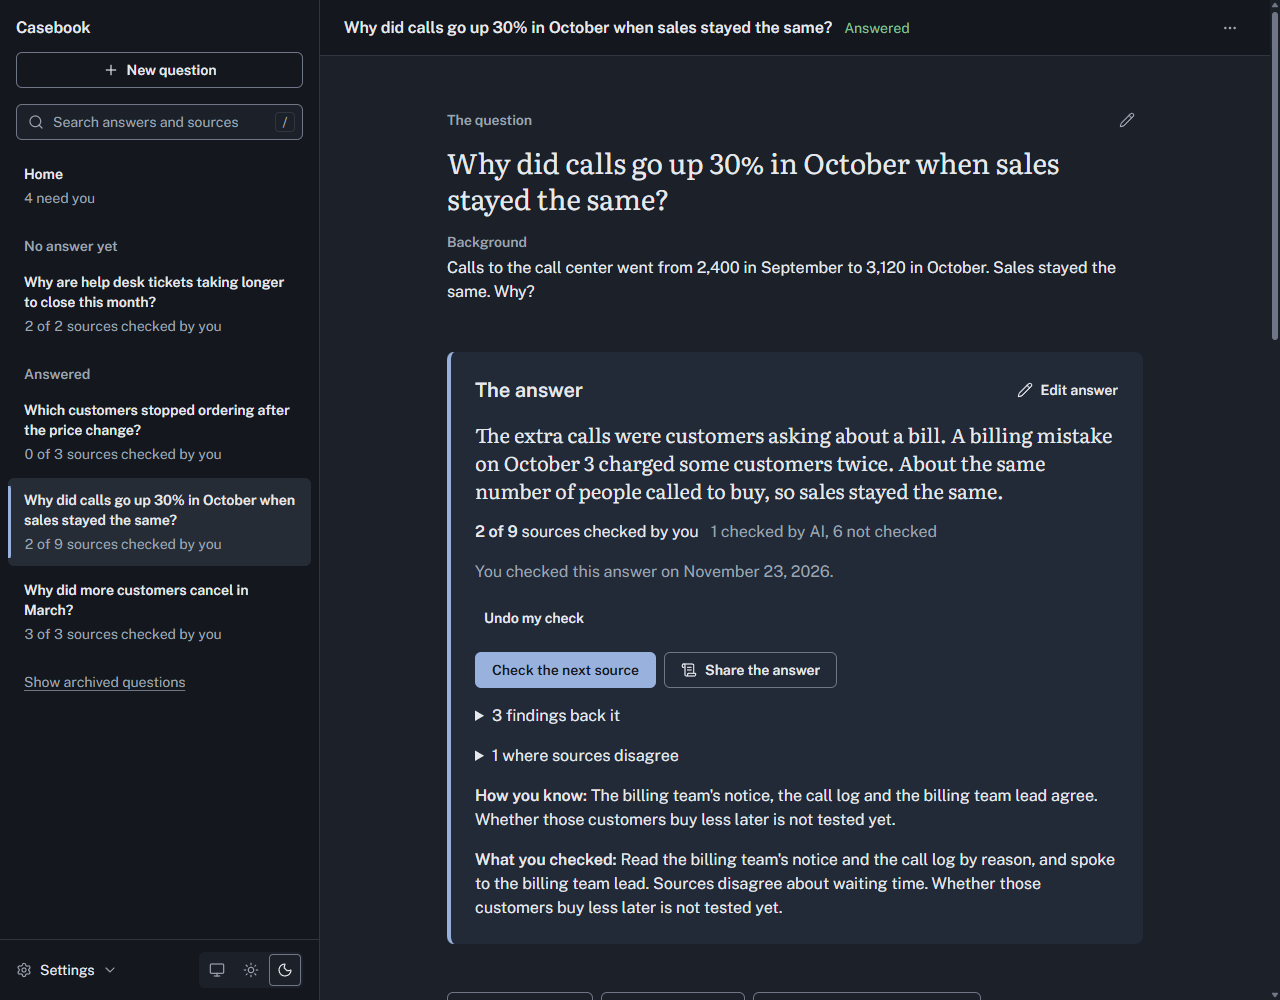
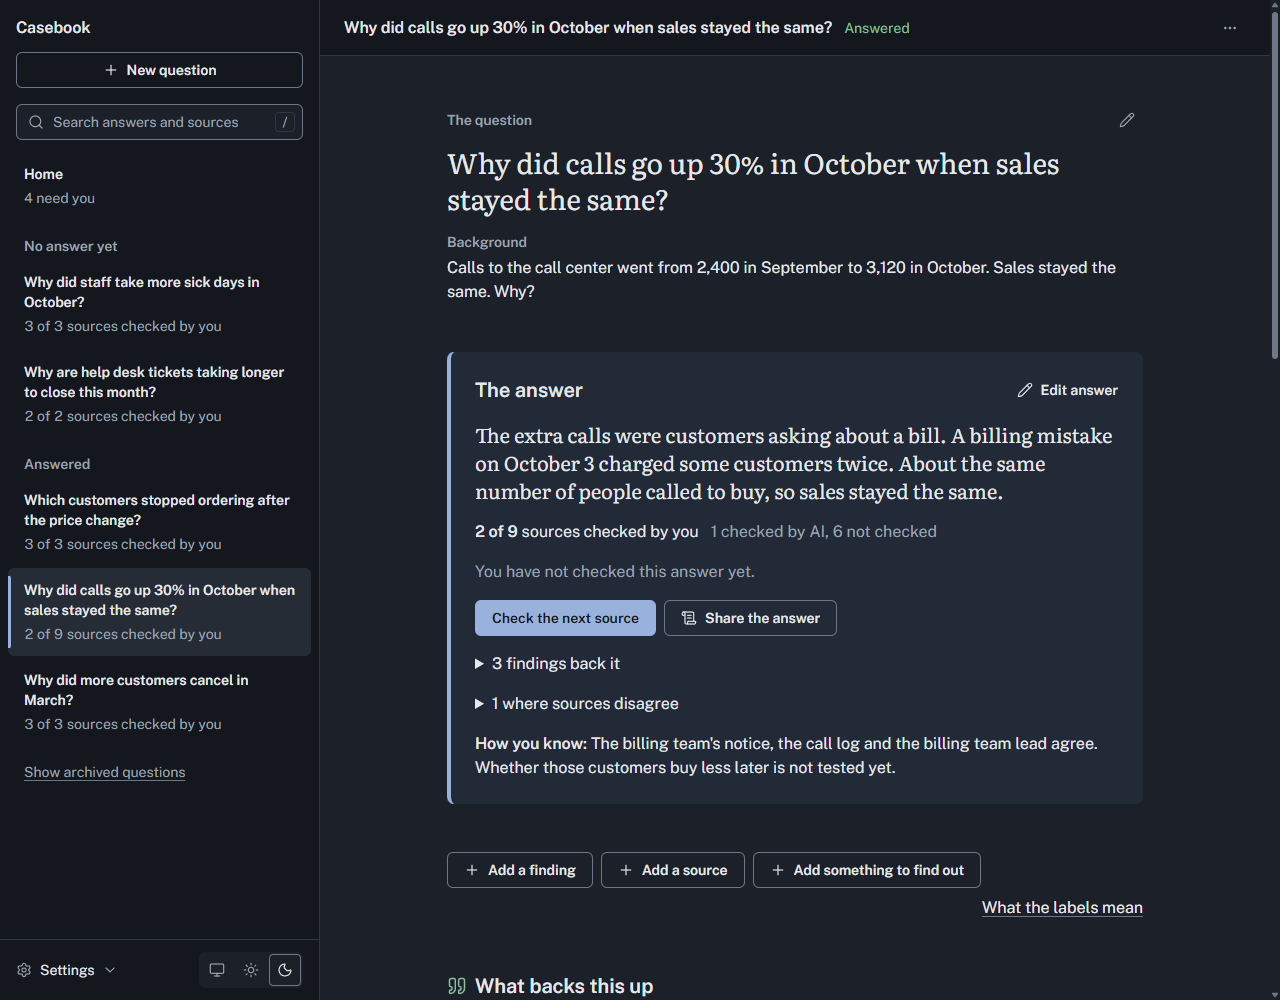
Demo: no answer is checked while a source is not checked or sources disagree
The call center answer is written but not checked. Customers who stopped
ordering has every source and the answer checked. A new sick days question
has a finding where sources disagree, so Home shows Check, Decide, Write
the answer and Check the answer. README images, briefing block and the
short version golden follow.

diff --git a/internal/demo/demo.go b/internal/demo/demo.go
@@ -4,10 +4,13 @@
 // calls go up 30% in October when sales stayed the same?": three sessions
 // over four days, Claude Code (Monday, Thursday) and Codex (Tuesday), and
 // one person who reads the billing team's notice, talks to the billing team
-// lead and checks the answer. INV-0001 is the March cancellations question, answered
-// last week (its answer is not checked yet); INV-0003 is the help desk
-// question, every source checked and still without an answer;
-// the others fill the list with an answered and an archived question.
+// lead and writes the answer; most of its sources are not checked yet.
+// Between them the questions give Home one of each thing it can ask for:
+// INV-0002 sources to check, INV-0006 (sick days) a finding to decide,
+// INV-0003 (help desk) an answer to write and INV-0001 (March
+// cancellations) an answer to check. INV-0004 (customers who stopped
+// ordering) is answered with every source and the answer checked, and
+// INV-0005 is archived.
 //
 // Everything is written through public internal/app methods with the
 // actors a real session would use, so "How we got here" reads as it would
@@ -34,8 +37,7 @@ const FeaturedTitle = "Why did calls go up 30% in October when sales stayed the 
 type Stage string
 
 const (
-	// StageFull writes the whole story, ending with the person's check of
-	// the answer.
+	// StageFull writes the whole story, ending with the person's answer.
 	StageFull Stage = "full"
 	// StageBeforeThursday stops before Thursday's Claude Code session, so
 	// ThursdayCheckpoint can be written live from another process (the
@@ -217,8 +219,9 @@ const (
 // run writes the scenes in time order (the clock never moves back). Refs
 // follow creation order: INV-0001 March cancellations (last week, answered),
 // INV-0002 the call center calls (Monday), INV-0003 help desk tickets (no
-// answer yet), INV-0004 customers who stopped ordering (answered), INV-0005
-// the office supplies order (archived).
+// answer yet), INV-0004 customers who stopped ordering (answered and
+// checked), INV-0005 the office supplies order (archived), INV-0006 sick
+// days (sources disagree).
 func (s *seeder) run(stage Stage) {
 	s.cancellations()
 	s.callsMonday()
@@ -227,6 +230,7 @@ func (s *seeder) run(stage Stage) {
 	s.lostCustomers()
 	s.helpDeskStuck()
 	s.suppliesOrder()
+	s.sickDays()
 	if s.err != nil || stage == StageBeforeThursday {
 		return
 	}
@@ -508,7 +512,8 @@ func (s *seeder) callsTuesday() {
 // person is the person's part on Thursday afternoon: two things to find
 // out (one left for later), a check of the billing team's notice (E-007),
 // the billing team lead's word as E-009 linked to C-003
-// and a check of the answer.
+// and the answer in their own words. They have not checked the answer:
+// most sources are not checked yet.
 func (s *seeder) person() {
 	a, ctx := s.a, s.ctx
 	s.at(80 * time.Minute)
@@ -549,26 +554,14 @@ func (s *seeder) person() {
 		return
 	}
 	s.at(65 * time.Minute)
-	conclusion, err := a.UpdateConclusion(ctx, Person, FeaturedRef, app.ConclusionInput{
+	_, err = a.UpdateConclusion(ctx, Person, FeaturedRef, app.ConclusionInput{
 		Conclusion:          Conclusion,
 		Confidence:          app.ConfidenceHigh,
 		Rationale:           PersonRationale,
 		SupportingClaims:    []string{"C-002", "C-003"},
 		ContradictingClaims: []string{"C-001"},
 	})
-	if !s.check(FeaturedRef+" answer by the person", err) {
-		return
-	}
-	_, err = a.UpdateConclusion(ctx, Person, FeaturedRef, app.ConclusionInput{
-		Conclusion:          Conclusion,
-		Confidence:          app.ConfidenceHigh,
-		Rationale:           PersonRationale,
-		Verification:        app.VerificationHumanVerified,
-		Review:              true,
-		ReviewBasis:         "Read the billing team's notice and the call log by reason, and spoke to the billing team lead. Sources disagree about waiting time. Whether those customers buy less later is not tested yet.",
-		ExpectedReviewToken: conclusion.ConclusionReviewToken,
-	})
-	s.check(FeaturedRef+" answer reviewed", err)
+	s.check(FeaturedRef+" answer by the person", err)
 }
 
 // helpDesk opens INV-0003 on Monday afternoon.
@@ -654,7 +647,7 @@ func (s *seeder) helpDeskStuck() {
 }
 
 // lostCustomers is INV-0004, asked and answered within a few hours on
-// Tuesday. Nobody has checked its sources.
+// Tuesday. The person checked its three sources, then the answer.
 func (s *seeder) lostCustomers() {
 	a, ctx := s.a, s.ctx
 	if s.err != nil {
@@ -710,12 +703,27 @@ func (s *seeder) lostCustomers() {
 		return
 	}
 	s.at(2*day - 6*hour)
-	_, err = a.UpdateConclusion(ctx, Person, inv.Ref, app.ConclusionInput{
+	for _, ref := range refs {
+		_, err = a.SetEvidenceVerification(ctx, Person, inv.Ref, ref, app.VerificationHumanVerified)
+		if !s.check("INV-0004 check "+ref, err) {
+			return
+		}
+	}
+	answer := app.ConclusionInput{
 		Conclusion: "Eleven small customers, together 2% of sales.",
 		Confidence: app.ConfidenceHigh,
 		Rationale:  "The order list names the eleven customers and the sales numbers give what they bought.",
-	})
+	}
+	written, err := a.UpdateConclusion(ctx, Person, inv.Ref, answer)
 	if !s.check("INV-0004 answer", err) {
+		return
+	}
+	answer.Verification = app.VerificationHumanVerified
+	answer.Review = true
+	answer.ReviewBasis = "Read the order list and the sales numbers by customer."
+	answer.ExpectedReviewToken = written.ConclusionReviewToken
+	_, err = a.UpdateConclusion(ctx, Person, inv.Ref, answer)
+	if !s.check("INV-0004 answer checked", err) {
 		return
 	}
 	_, err = a.UpdateInvestigation(ctx, Person, inv.Ref, app.InvestigationPatch{Status: ptr(app.InvestigationStatusResolved)})
@@ -772,4 +780,68 @@ func (s *seeder) suppliesOrder() {
 	s.at(26 * hour)
 	_, err = a.ArchiveInvestigation(ctx, Person, inv.Ref)
 	s.check("INV-0005 archive", err)
+}
+
+// sickDays is INV-0006, opened yesterday: the person checked all three
+// sources, and one goes against the office manager's view, so a finding
+// where sources disagree is left to decide. No answer yet.
+func (s *seeder) sickDays() {
+	a, ctx := s.a, s.ctx
+	if s.err != nil {
+		return
+	}
+	s.at(25 * hour)
+	inv, err := a.CreateInvestigation(ctx, CLI, app.CreateInvestigationInput{
+		Title:            "Why did staff take more sick days in October?",
+		ProblemStatement: "Staff took 60 sick days in September and 110 in October. Why?",
+		Status:           app.InvestigationStatusInvestigating,
+	})
+	if !s.check("INV-0006", err) {
+		return
+	}
+	var refs []string
+	for _, e := range []app.EvidenceInput{
+		{
+			Title:       "Sick days: 60 in September, 110 in October",
+			Summary:     "The list of sick days shows staff took 60 sick days in September and 110 in October.",
+			SourceType:  app.SourceTypeFile,
+			SourceRef:   "List of sick days, September and October",
+			SourceLabel: "List of sick days",
+		},
+		{
+			Title:       "Office manager: a cold went round the sales team in October",
+			Summary:     "The office manager said a cold went round the sales team in the middle of October.",
+			SourceType:  app.SourceTypeUserStatement,
+			SourceLabel: "Office manager, in person",
+		},
+		{
+			Title:       "The sales team took 20 of the 110 sick days in October",
+			Summary:     "The list of sick days by team shows the sales team took 20 sick days in October and 18 in September.",
+			SourceType:  app.SourceTypeFile,
+			SourceRef:   "List of sick days, by team",
+			SourceLabel: "List of sick days",
+		},
+	} {
+		ev, err := a.AddEvidence(ctx, Codex, inv.Ref, e)
+		if !s.check("INV-0006 source", err) {
+			return
+		}
+		refs = append(refs, ev.Ref)
+	}
+	_, err = a.AddClaim(ctx, Codex, inv.Ref, app.ClaimInput{
+		Statement:           "A cold that went round the sales team caused the extra sick days.",
+		Confidence:          app.ConfidenceLow,
+		ConfidenceRationale: "This is the office manager's view. The list of sick days by team does not show it.",
+		Links:               []app.EvidenceLinkInput{supports(refs[1]), contradicts(refs[2])},
+	})
+	if !s.check("INV-0006 C-001", err) {
+		return
+	}
+	s.at(24 * hour)
+	for _, ref := range refs {
+		_, err = a.SetEvidenceVerification(ctx, Person, inv.Ref, ref, app.VerificationHumanVerified)
+		if !s.check("INV-0006 check "+ref, err) {
+			return
+		}
+	}
 }

diff --git a/desktop/seed_test.go b/desktop/seed_test.go
@@ -28,8 +28,8 @@ func TestSeedDemoCoversEveryState(t *testing.T) {
 	if err != nil {
 		t.Fatal(err)
 	}
-	if len(list) != 5 {
-		t.Fatalf("seeded %d investigations, want 5", len(list))
+	if len(list) != 6 {
+		t.Fatalf("seeded %d investigations, want 6", len(list))
 	}
 	if list[0].Ref != demo.FeaturedRef || !list[0].IsActive || list[0].Title != demo.FeaturedTitle {
 		t.Fatalf("top of the list = %+v, want the active featured question", list[0])
@@ -45,17 +45,27 @@ func TestSeedDemoCoversEveryState(t *testing.T) {
 	// The list carries what the sidebar and Home show: the answer, the
 	// count of sources checked, the findings where sources disagree and
 	// whether the answer is checked. Between them the questions show each
-	// thing Home can ask for: INV-0001 an answer to check, the featured one
-	// sources to check and a finding to decide, INV-0003 an answer to write.
-	if s := byRef[demo.FeaturedRef]; s.Conclusion != demo.Conclusion || s.SourcesTotal != 9 || s.SourcesCheckedByYou != 2 || s.FindingsDisagree != 1 || !s.AnswerCheckedByYou {
+	// thing Home can ask for: the featured one sources to check, INV-0006 a
+	// finding to decide, INV-0003 an answer to write and INV-0001 an answer
+	// to check. INV-0004 needs nothing. No answer is checked while a source
+	// is not checked or sources disagree.
+	if s := byRef[demo.FeaturedRef]; s.Conclusion != demo.Conclusion || s.SourcesTotal != 9 || s.SourcesCheckedByYou != 2 || s.FindingsDisagree != 1 || s.AnswerCheckedByYou {
 		t.Fatalf("%s = %+v", demo.FeaturedRef, s)
 	}
 	if s := byRef["INV-0003"]; s.Title != "Why are help desk tickets taking longer to close this month?" || s.Status != app.InvestigationStatusBlocked ||
 		s.Conclusion != "" || s.SourcesTotal != 2 || s.SourcesCheckedByYou != 2 || s.Counts.OpenQuestions != 2 {
 		t.Fatalf("INV-0003 = %+v", s)
 	}
-	if s := byRef["INV-0004"]; s.Status != app.InvestigationStatusResolved || s.Archived || s.Conclusion == "" || s.SourcesTotal != 3 || s.SourcesCheckedByYou != 0 {
+	if s := byRef["INV-0004"]; s.Status != app.InvestigationStatusResolved || s.Archived || s.Conclusion == "" || s.SourcesTotal != 3 || s.SourcesCheckedByYou != 3 || s.FindingsDisagree != 0 || !s.AnswerCheckedByYou {
 		t.Fatalf("INV-0004 = %+v", s)
+	}
+	if s := byRef["INV-0006"]; s.Title != "Why did staff take more sick days in October?" || s.Archived || s.Conclusion != "" || s.SourcesTotal != 3 || s.SourcesCheckedByYou != 3 || s.FindingsDisagree != 1 {
+		t.Fatalf("INV-0006 = %+v", s)
+	}
+	for _, s := range list {
+		if s.AnswerCheckedByYou && (s.SourcesCheckedByYou < s.SourcesTotal || s.FindingsDisagree > 0) {
+			t.Errorf("%s has its answer checked with sources left or sources that disagree: %+v", s.Ref, s)
+		}
 	}
 	if s := byRef["INV-0005"]; !s.Archived {
 		t.Fatalf("INV-0005 = %+v", s)
@@ -114,10 +124,11 @@ func TestSeedDemoCoversEveryState(t *testing.T) {
 	}
 	clients := map[string]bool{}
 	var prev string
-	reviewed := false
+	reviewed, reviewedLost := false, false
 	for i := len(rows) - 1; i >= 0; i-- {
 		r := rows[i]
 		reviewed = reviewed || (r.InvestigationRef == demo.FeaturedRef && r.Action == "conclusion.update" && r.Summary == "Recorded a review of the answer")
+		reviewedLost = reviewedLost || (r.InvestigationRef == "INV-0004" && r.Action == "conclusion.update" && r.Summary == "Recorded a review of the answer")
 		if r.Actor.Kind == app.ActorAI {
 			clients[r.Actor.Client] = true
 		}
@@ -133,8 +144,11 @@ func TestSeedDemoCoversEveryState(t *testing.T) {
 			t.Errorf("activity at %s falls outside the demo window", r.CreatedAt)
 		}
 	}
-	if !reviewed {
-		t.Error("no history row records the person's review of the answer")
+	if reviewed {
+		t.Errorf("a history row records a review of the %s answer, which nobody checked", demo.FeaturedRef)
+	}
+	if !reviewedLost {
+		t.Error("no history row records the person's review of the INV-0004 answer")
 	}
 	if !clients["claude-code"] || !clients["codex"] {
 		t.Errorf("AI activity clients = %v, want claude-code and codex", clients)
@@ -142,7 +156,7 @@ func TestSeedDemoCoversEveryState(t *testing.T) {
 }
 
 // checkFeatured checks INV-0002 against the canonical scenario; full says
-// whether Thursday (Claude Code's checkpoint and the person's check) was
+// whether Thursday (Claude Code's checkpoint and the person's answer) was
 // seeded.
 func checkFeatured(t *testing.T, a *app.App, full bool) {
 	t.Helper()

diff --git a/internal/contextpack/brief_golden_test.go b/internal/contextpack/brief_golden_test.go
@@ -62,7 +62,7 @@ func TestGoldenBriefDemo(t *testing.T) {
 	}
 	for _, want := range []string{
 		"# Why did calls go up 30% in October when sales stayed the same?\n\nAsked on October 29, 2026. Last changed on November 1, 2026.\n\n## Background\n",
-		"2 of 9 sources checked by a person. 1 checked by AI, 6 not checked.\n\nA person checked this answer on November 1, 2026.\n",
+		"2 of 9 sources checked by a person. 1 checked by AI, 6 not checked.\n\nNobody has checked this answer yet.\n",
 		"\nHow we know: The billing team's notice, the call log and the billing team lead agree.",
 		"- A billing mistake on October 3 charged some customers twice. (2 of 4 sources checked by a person)\n",
 		"## Where sources disagree\n\n- Callers waited too long and hung up before buying.\n",

diff --git a/scripts/readme-example/main_test.go b/scripts/readme-example/main_test.go
@@ -25,7 +25,8 @@ func TestReadmeExample(t *testing.T) {
 	for _, want := range []string{
 		"Question: " + demo.FeaturedRef + "\nTitle: " + demo.FeaturedTitle + "\n",
 		"Answer so far:\n" + demo.Conclusion + "\n",
-		"Answer marked: A person checked this",
+		"Answer marked: Not checked",
+		"Answer checked by a person: not yet.",
 		"C-003 [2 of 4 sources checked by a person]",
 		"E-007 [A person checked this]",
 		"Findings where sources disagree:\nC-001 [Sources disagree]",

diff --git a/README.md b/README.md
@@ -12,7 +12,7 @@ It runs on your own computer. There is no account and nothing to host.
 
 <picture>
   <source media="(prefers-color-scheme: dark)" srcset="docs/screenshots/detail-dark.png">
-  <img src="docs/screenshots/main.png" alt="Casebook with the question &quot;Why did calls go up 30% in October when sales stayed the same?&quot; open. Under the question and its background is the answer, with &quot;2 of 9 sources checked by you, 1 checked by AI, 6 not checked&quot;, the date you checked the answer, and the buttons Check the next source and Share the answer. The list on the left shows Home and groups the questions under No answer yet and Answered." width="100%">
+  <img src="docs/screenshots/main.png" alt="Casebook with the question &quot;Why did calls go up 30% in October when sales stayed the same?&quot; open. Under the question and its background is the answer, with &quot;2 of 9 sources checked by you, 1 checked by AI, 6 not checked&quot;, &quot;You have not checked this answer yet.&quot;, and the buttons Check the next source and Share the answer. The list on the left shows Home and groups the questions under No answer yet and Answered." width="100%">
 </picture>
 
 <p align="center">
@@ -91,7 +91,7 @@ If your AI rewrites something you checked, the label goes back to Not checked an
 
 Choose **Share the answer** on a question. Pick **Short version** for the answer and the findings behind it, or **Everything** to add the full history. **Copy** puts the text on the clipboard for an email or a document. **Save as a file** writes a web page that opens in any browser.
 
-![The Share the answer window for the call center question with Short version picked under How much to share. Below it, the start of the answer as the reader will see it: the question, when it was asked, the background, and the answer with how many sources were checked. At the bottom, Close, Save as a file and Copy.](docs/screenshots/share-summary.png)
+![The Share the answer window for the call center question with Short version picked under How much to share. Below it, the start of the answer as the reader will see it: the question, when it was asked, the background, and the answer with how many sources were checked and a line saying nobody has checked the answer yet. At the bottom, Close, Save as a file and Copy.](docs/screenshots/share-summary.png)
 
 The reader does not need Casebook. The shared answer names each finding and source in its own words, says which ones a person checked, and always includes findings where sources disagree. The short version ends by saying what it left out. Casebook builds the text from what is saved and does not ask an AI to rewrite it.
 
@@ -161,11 +161,10 @@ Calls to the call center went from 2,400 in September to 3,120 in October. Sales
 Answer so far:
 The extra calls were customers asking about a bill. A billing mistake on October 3 charged some customers twice. About the same number of people called to buy, so sales stayed the same.
 
-Answer marked: A person checked this
+Answer marked: Not checked
 Findings behind the answer: C-002 [0 of 2 sources checked by a person], C-003 [2 of 4 sources checked by a person]
 Findings against the answer: C-001 [Sources disagree]
-Answer checked by a person: 2026-11-05 14:55 UTC
-What was checked: Read the billing team's notice and the call log by reason, and spoke to the billing team lead. Sources disagree about waiting time. Whether those customers buy less later is not tested yet.
+Answer checked by a person: not yet.
 
 Why this answer:
 The billing team's notice, the call log and the billing team lead agree. Whether those customers buy less later is not tested yet.

diff --git a/internal/contextpack/testdata/calls_brief.md b/internal/contextpack/testdata/calls_brief.md
@@ -12,9 +12,7 @@ The extra calls were customers asking about a bill. A billing mistake on October
 
 2 of 9 sources checked by a person. 1 checked by AI, 6 not checked.
 
-A person checked this answer on November 1, 2026.
-
-What was checked: Read the billing team's notice and the call log by reason, and spoke to the billing team lead. Sources disagree about waiting time. Whether those customers buy less later is not tested yet.
+Nobody has checked this answer yet.
 
 How we know: The billing team's notice, the call log and the billing team lead agree. Whether those customers buy less later is not tested yet.
 
